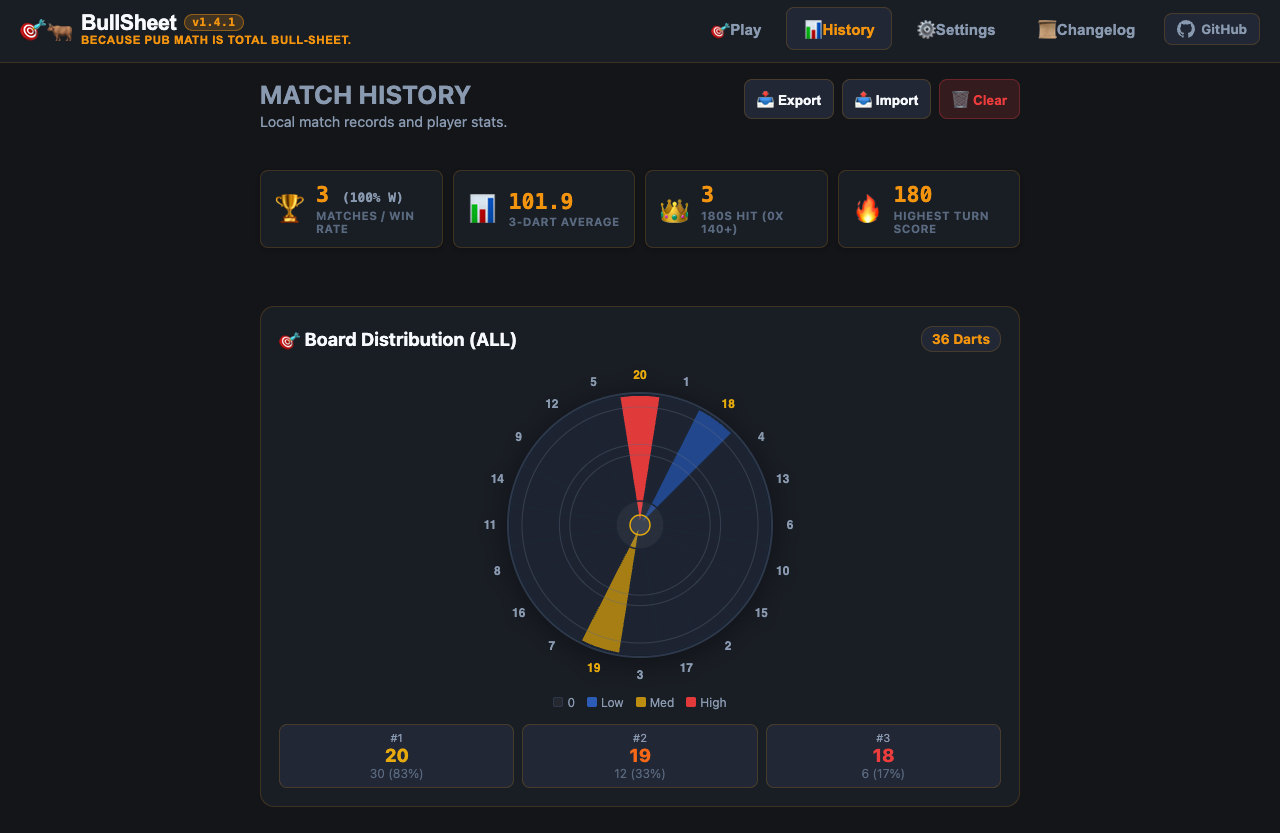
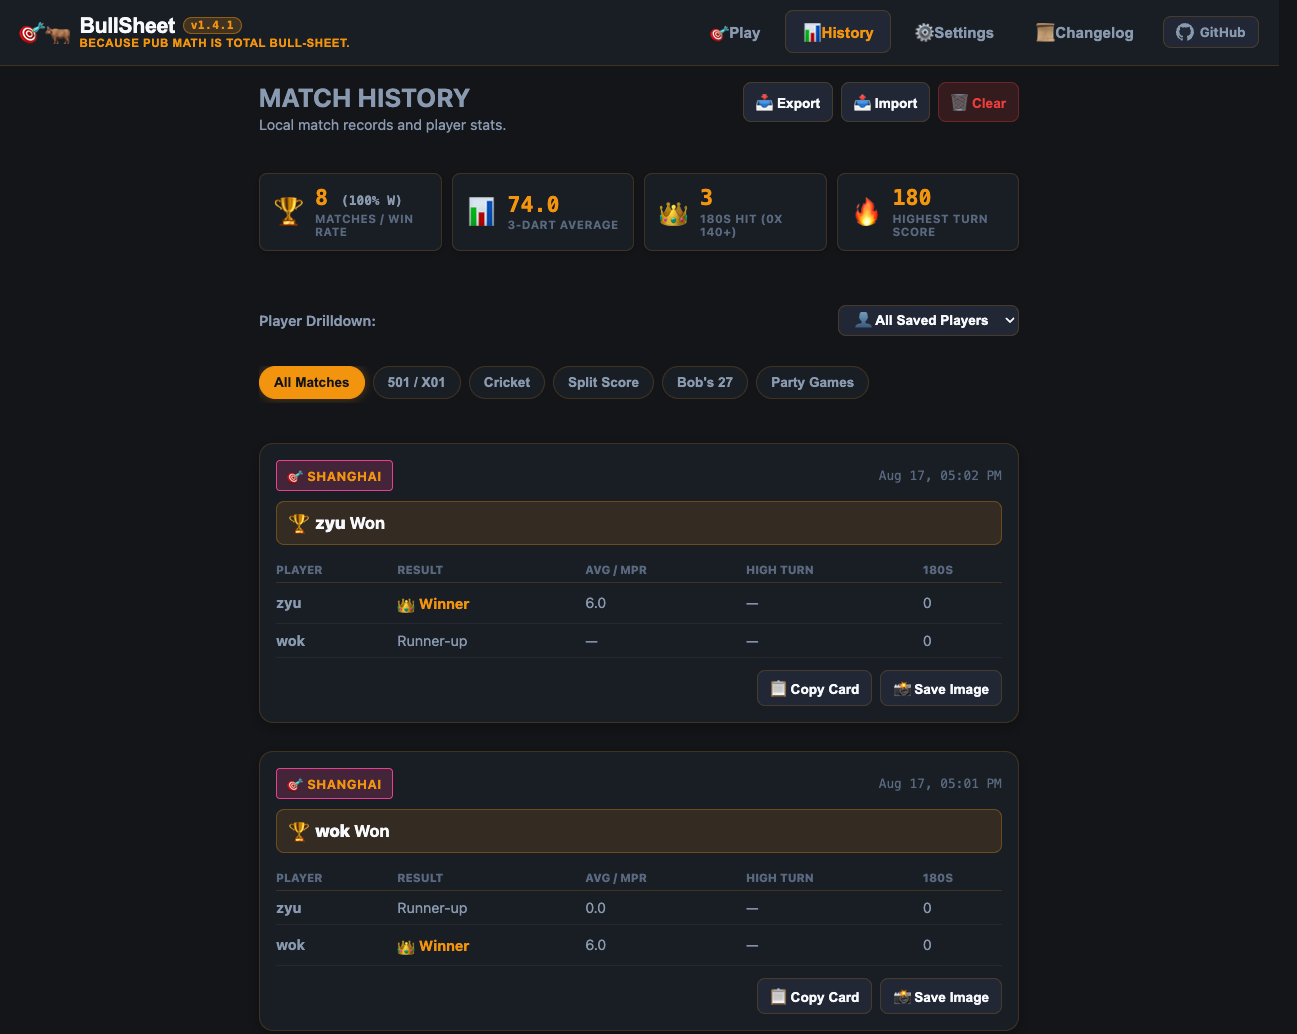
refactor(stats): remove radial heatmap in favor of streamlined match summary and lifetime stats

diff --git a/sw.js b/sw.js
@@ -29,7 +29,6 @@ const ASSETS_TO_CACHE = [
   './js/games/elimination.js',
   './js/games/around_clock.js',
   './js/games/bobs27.js',
-  './js/components/heatmap.js',
   './js/components/match_card.js',
   './icons/icon.svg',
   './icons/icon-192.png',

diff --git a/README.md b/README.md
@@ -22,9 +22,9 @@ Designed to run on a phone or tablet at the oche. Or honestly, a laptop on the k
 | :---: | :---: |
 | <img src="assets/screenshots/landscape/x01_keypad.png" alt="BullSheet Pro Speed Keypad" width="100%" /> | <img src="assets/screenshots/landscape/x01_dartsboard.png" alt="Interactive SVG Dartboard" width="100%" /> |
 
-| Radial Heatmap | Match History |
+| History Stats | Various Themes |
 | :---: | :---: |
-| <img src="assets/screenshots/landscape/history_top.png" alt="Lifetime Stats & Heatmap" width="100%" /> | <img src="assets/screenshots/landscape/home.png" alt="Match Setup and Game Modes" width="100%" /> |
+| <img src="assets/screenshots/landscape/history_top.png" alt="Lifetime Stats & Match Log" width="100%" /> | <img src="assets/screenshots/portrait/settings_excel.png" alt="Match Setup and Game Modes" width="50%" /> |
 
 ---
 
@@ -62,19 +62,17 @@ Volume control and mute toggle in settings.
 ### AI Opponents
 Five bot difficulty profiles for solo practice:
 
-| Bot | Skill | Vibe |
-| :--- | :--- | :--- |
-| 🤡 Beginner | Shaky aim, lots of misses | Your mate who's "never played before" |
-| 🍺 Casual | Solid singles, occasional trebles | Pub league regular |
-| 📊 Tactician | Calculated, low miss rate | Plays the percentages |
-| 🎯 Semi-Pro | Heavy treble scoring | County-level |
-| 👑 Master | Near-flawless | Not fun to play against |
-
+| Bot | Skill |
+| :--- | :--- |
+| 🤡 Beginner | Your mate who's "never played before" |
+| 🍺 Casual | Pub league regular |
+| 📊 Tactician | Plays the percentages |
+| 🎯 Semi-Pro | County-level |
+| 👑 Master | Not fun to play against |
 ### Other Stuff
 
 - **Save your mates** — Add regulars, tap to add them to the lineup
 - **Match history** — Local match log with 3-dart averages, 180 counts, and high turns
-- **Throw heatmap** — Radial visualization of where your darts actually landed
 - **Match card export** — Generates a shareable PNG summary of the match
 - **History import/export** — Backup and restore match data as JSON
 - **Rules reference** — Built-in rules popup for each game mode

diff --git a/CONTRIBUTING.md b/CONTRIBUTING.md
@@ -36,7 +36,7 @@ bull-sheet/
 │   ├── app.js                  # Main controller and route switcher
 │   ├── audio/                  # Audio caller and procedural sound synthesizer
 │   ├── bot/                    # Tactical AI engine and skill profiles
-│   ├── components/             # Dartboard, Keypad, Scoreboard, Heatmap, Match Card
+│   ├── components/             # Dartboard, Keypad, Scoreboard, Match Card
 │   ├── games/                  # Modular game engines (10 modes)
 │   └── storage/                # LocalStorage management and import/export
 └── tests/
